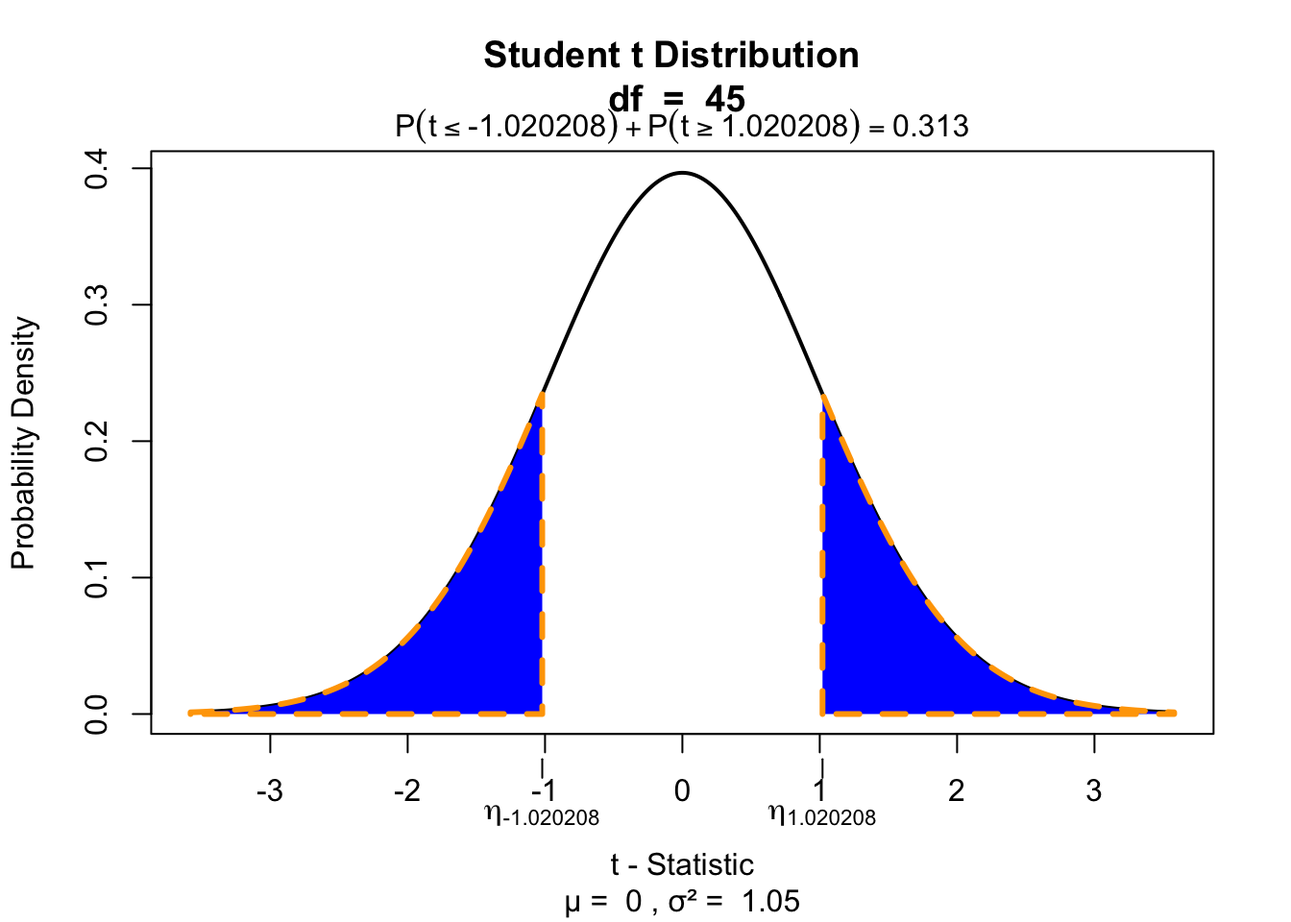
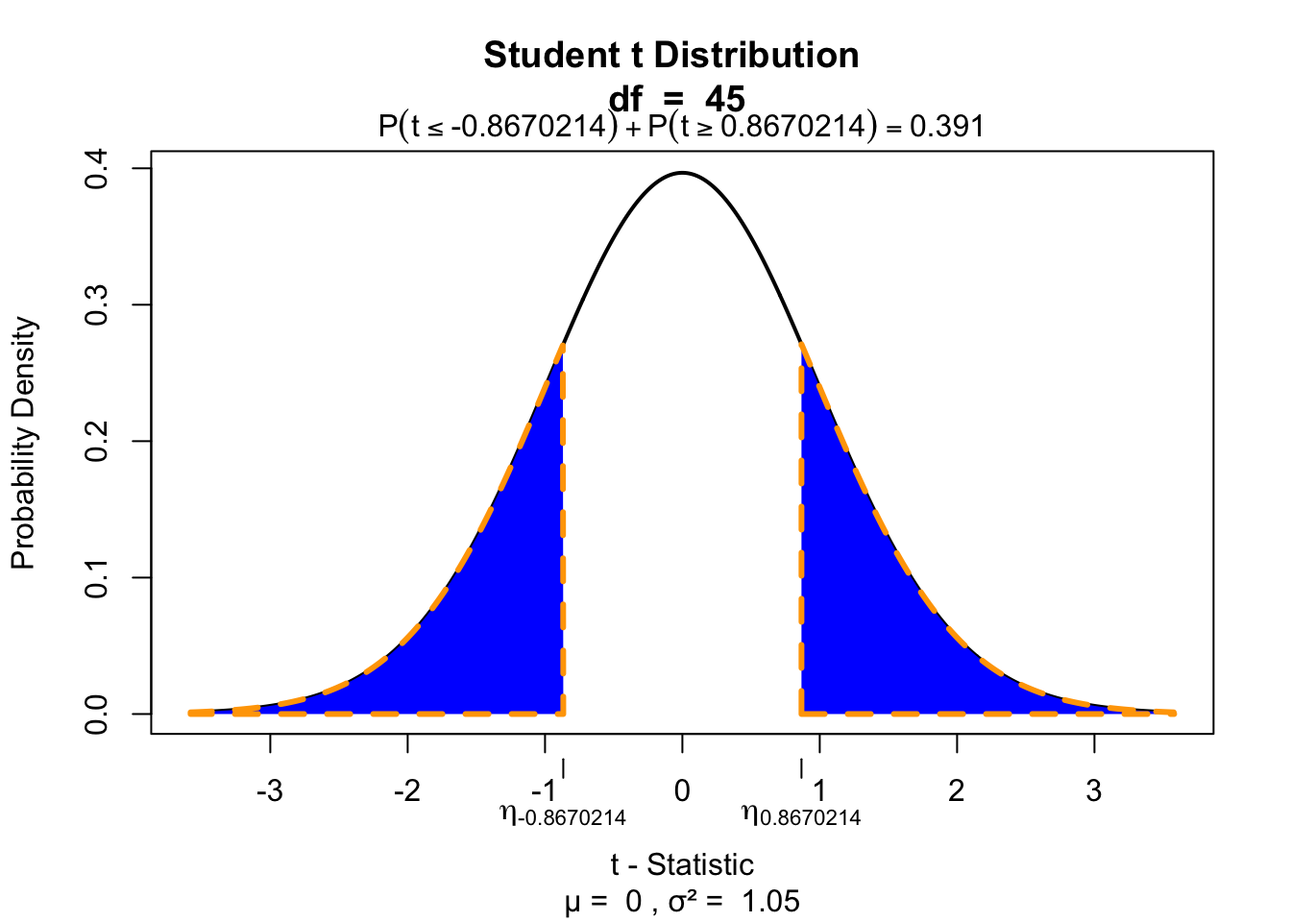
echo chunk false

diff --git a/courses/2020-2021_SSR/paired_and_independent_t_test/paired_and_independent_t_test_reveal.html b/courses/2020-2021_SSR/paired_and_independent_t_test/paired_and_independent_t_test_reveal.html
@@ -644,63 +644,52 @@ document.getElementsByTagName('head')[0].appendChild(style);
 <p>Let’s take a look at the data.</p>
 </section><section id="iq-estimates" class="slide level2">
 <h2>IQ estimates</h2>
-<div class="sourceCode" id="cb1"><pre class="sourceCode r"><code class="sourceCode r"><span id="cb1-1"><a href="#cb1-1"></a><span class="cf">if</span>(<span class="op">!</span><span class="st">&#39;gsheet&#39;</span> <span class="op">%in%</span><span class="st"> </span><span class="kw">installed.packages</span>()) { <span class="kw">install.packages</span>(<span class="st">&#39;gsheet&#39;</span>) }</span>
-<span id="cb1-2"><a href="#cb1-2"></a><span class="kw">library</span>(<span class="st">&quot;gsheet&quot;</span>)</span>
-<span id="cb1-3"><a href="#cb1-3"></a>data &lt;-<span class="st"> </span><span class="kw">gsheet2tbl</span>(<span class="st">&#39;docs.google.com/spreadsheets/d/13oLFjy5e923weH8bzBipZSvWYS_dpw7B77g5yW_myLg/edit?usp=sharing&#39;</span>)</span></code></pre></div>
-<pre><code>## No encoding supplied: defaulting to UTF-8.</code></pre>
-<div class="sourceCode" id="cb3"><pre class="sourceCode r"><code class="sourceCode r"><span id="cb3-1"><a href="#cb3-1"></a>data =<span class="st"> </span>data[<span class="kw">grep</span>(<span class="st">&quot;2017&quot;</span>, <span class="kw">as.character</span>(data<span class="op">$</span>Timestamp)),<span class="kw">c</span>(<span class="st">&quot;IQ.next.to.you&quot;</span>, <span class="st">&quot;Own.IQ&quot;</span>)]</span>
-<span id="cb3-2"><a href="#cb3-2"></a></span>
-<span id="cb3-3"><a href="#cb3-3"></a>IQ.next.to.you =<span class="st"> </span>data<span class="op">$</span>IQ.next.to.you</span>
-<span id="cb3-4"><a href="#cb3-4"></a>IQ.you         =<span class="st"> </span>data<span class="op">$</span>Own.IQ</span>
-<span id="cb3-5"><a href="#cb3-5"></a></span>
-<span id="cb3-6"><a href="#cb3-6"></a><span class="cf">if</span>(<span class="op">!</span><span class="st">&quot;DT&quot;</span> <span class="op">%in%</span><span class="st"> </span><span class="kw">installed.packages</span>()) { <span class="kw">install.packages</span>(<span class="st">&quot;DT&quot;</span>) }</span>
-<span id="cb3-7"><a href="#cb3-7"></a><span class="kw">library</span>(<span class="st">&quot;DT&quot;</span>)</span></code></pre></div>
-<div id="htmlwidget-cb89c8059a50452ca29a" style="width:100%;height:auto;" class="datatables html-widget"></div>
-<script type="application/json" data-for="htmlwidget-cb89c8059a50452ca29a">{"x":{"filter":"none","data":[["1","2","3","4","5","6","7","8","9","10","11","12","13","14","15","16","17","18","19","20","21","22","23","24","25","26","27","28","29","30","31","32","33","34","35","36","37","38","39","40","41","42","43","44","45","46","47","48","49"],[130,120,124,124,120,130,119,118,124,125,125,120,125,130,116,125,120,120,116,120,122,125,140,120,120,115,131,115,123,125,121,120,125,150,135,125,110,120,127,120,128,110,120,119,121,119,112,125,100],[125,120,125,134,115,130,110,118,116,125,125,115,121,134,115,125,136,125,121,120,115,125,135,110,115,115,118,115,118,129,128,120,120,128,130,115,115,120,118,120,128,108,120,110,109,118,100,121,120]],"container":"<table class=\"display\">\n  <thead>\n    <tr>\n      <th> <\/th>\n      <th>IQ.next.to.you<\/th>\n      <th>Own.IQ<\/th>\n    <\/tr>\n  <\/thead>\n<\/table>","options":{"searching":false,"scrollY":415,"paging":false,"info":false,"columnDefs":[{"className":"dt-right","targets":[1,2]},{"orderable":false,"targets":0}],"order":[],"autoWidth":false,"orderClasses":false}},"evals":[],"jsHooks":[]}</script>
+<div id="htmlwidget-43f55be091b55b59b90c" style="width:100%;height:auto;" class="datatables html-widget"></div>
+<script type="application/json" data-for="htmlwidget-43f55be091b55b59b90c">{"x":{"filter":"none","data":[["1","2","3","4","5","6","7","8","9","10","11","12","13","14","15","16","17","18","19","20","21","22","23","24","25","26","27","28","29","30","31","32","33","34","35","36","37","38","39","40","41","42","43","44","45","46","47","48","49"],[130,120,124,124,120,130,119,118,124,125,125,120,125,130,116,125,120,120,116,120,122,125,140,120,120,115,131,115,123,125,121,120,125,150,135,125,110,120,127,120,128,110,120,119,121,119,112,125,100],[125,120,125,134,115,130,110,118,116,125,125,115,121,134,115,125,136,125,121,120,115,125,135,110,115,115,118,115,118,129,128,120,120,128,130,115,115,120,118,120,128,108,120,110,109,118,100,121,120]],"container":"<table class=\"display\">\n  <thead>\n    <tr>\n      <th> <\/th>\n      <th>IQ.next.to.you<\/th>\n      <th>Own.IQ<\/th>\n    <\/tr>\n  <\/thead>\n<\/table>","options":{"searching":false,"scrollY":415,"paging":false,"info":false,"columnDefs":[{"className":"dt-right","targets":[1,2]},{"orderable":false,"targets":0}],"order":[],"autoWidth":false,"orderClasses":false}},"evals":[],"jsHooks":[]}</script>
 </section><section id="calculate-d" class="slide level2 smaller subsection">
 <h2>Calculate <span class="math inline">\(D\)</span></h2>
-<div class="sourceCode" id="cb4"><pre class="sourceCode r"><code class="sourceCode r"><span id="cb4-1"><a href="#cb4-1"></a>D =<span class="st"> </span>IQ.next.to.you <span class="op">-</span><span class="st"> </span>IQ.you</span></code></pre></div>
-<div id="htmlwidget-e0c90da67fc0621d2976" style="width:100%;height:auto;" class="datatables html-widget"></div>
-<script type="application/json" data-for="htmlwidget-e0c90da67fc0621d2976">{"x":{"filter":"none","data":[["1","2","3","4","5","6","7","8","9","10","11","12","13","14","15","16","17","18","19","20","21","22","23","24","25","26","27","28","29","30","31","32","33","34","35","36","37","38","39","40","41","42","43","44","45","46","47","48","49"],[130,120,124,124,120,130,119,118,124,125,125,120,125,130,116,125,120,120,116,120,122,125,140,120,120,115,131,115,123,125,121,120,125,150,135,125,110,120,127,120,128,110,120,119,121,119,112,125,100],[125,120,125,134,115,130,110,118,116,125,125,115,121,134,115,125,136,125,121,120,115,125,135,110,115,115,118,115,118,129,128,120,120,128,130,115,115,120,118,120,128,108,120,110,109,118,100,121,120],[5,0,-1,-10,5,0,9,0,8,0,0,5,4,-4,1,0,-16,-5,-5,0,7,0,5,10,5,0,13,0,5,-4,-7,0,5,22,5,10,-5,0,9,0,0,2,0,9,12,1,12,4,-20]],"container":"<table class=\"display\">\n  <thead>\n    <tr>\n      <th> <\/th>\n      <th>IQ.next.to.you<\/th>\n      <th>Own.IQ<\/th>\n      <th>D<\/th>\n    <\/tr>\n  <\/thead>\n<\/table>","options":{"searching":false,"scrollY":315,"paging":false,"info":false,"columnDefs":[{"className":"dt-right","targets":[1,2,3]},{"orderable":false,"targets":0}],"order":[],"autoWidth":false,"orderClasses":false}},"evals":[],"jsHooks":[]}</script>
+<div class="sourceCode" id="cb1"><pre class="sourceCode r"><code class="sourceCode r"><span id="cb1-1"><a href="#cb1-1"></a>D =<span class="st"> </span>IQ.next.to.you <span class="op">-</span><span class="st"> </span>IQ.you</span></code></pre></div>
+<div id="htmlwidget-84f750cadb10d37549fd" style="width:100%;height:auto;" class="datatables html-widget"></div>
+<script type="application/json" data-for="htmlwidget-84f750cadb10d37549fd">{"x":{"filter":"none","data":[["1","2","3","4","5","6","7","8","9","10","11","12","13","14","15","16","17","18","19","20","21","22","23","24","25","26","27","28","29","30","31","32","33","34","35","36","37","38","39","40","41","42","43","44","45","46","47","48","49"],[130,120,124,124,120,130,119,118,124,125,125,120,125,130,116,125,120,120,116,120,122,125,140,120,120,115,131,115,123,125,121,120,125,150,135,125,110,120,127,120,128,110,120,119,121,119,112,125,100],[125,120,125,134,115,130,110,118,116,125,125,115,121,134,115,125,136,125,121,120,115,125,135,110,115,115,118,115,118,129,128,120,120,128,130,115,115,120,118,120,128,108,120,110,109,118,100,121,120],[5,0,-1,-10,5,0,9,0,8,0,0,5,4,-4,1,0,-16,-5,-5,0,7,0,5,10,5,0,13,0,5,-4,-7,0,5,22,5,10,-5,0,9,0,0,2,0,9,12,1,12,4,-20]],"container":"<table class=\"display\">\n  <thead>\n    <tr>\n      <th> <\/th>\n      <th>IQ.next.to.you<\/th>\n      <th>Own.IQ<\/th>\n      <th>D<\/th>\n    <\/tr>\n  <\/thead>\n<\/table>","options":{"searching":false,"scrollY":315,"paging":false,"info":false,"columnDefs":[{"className":"dt-right","targets":[1,2,3]},{"orderable":false,"targets":0}],"order":[],"autoWidth":false,"orderClasses":false}},"evals":[],"jsHooks":[]}</script>
 </section><section id="calculate-bard" class="slide level2">
 <h2>Calculate <span class="math inline">\(\bar{D}\)</span></h2>
-<div class="sourceCode" id="cb5"><pre class="sourceCode r"><code class="sourceCode r"><span id="cb5-1"><a href="#cb5-1"></a>D      =<span class="st"> </span><span class="kw">na.omit</span>(D) <span class="co"># get rid of all missing values</span></span>
-<span id="cb5-2"><a href="#cb5-2"></a>D.mean =<span class="st"> </span><span class="kw">mean</span>(D)</span>
-<span id="cb5-3"><a href="#cb5-3"></a>D.mean</span></code></pre></div>
+<div class="sourceCode" id="cb2"><pre class="sourceCode r"><code class="sourceCode r"><span id="cb2-1"><a href="#cb2-1"></a>D      =<span class="st"> </span><span class="kw">na.omit</span>(D) <span class="co"># get rid of all missing values</span></span>
+<span id="cb2-2"><a href="#cb2-2"></a>D.mean =<span class="st"> </span><span class="kw">mean</span>(D)</span>
+<span id="cb2-3"><a href="#cb2-3"></a>D.mean</span></code></pre></div>
 <pre><code>## [1] 1.959184</code></pre>
 <p>And we also need n.</p>
-<div class="sourceCode" id="cb7"><pre class="sourceCode r"><code class="sourceCode r"><span id="cb7-1"><a href="#cb7-1"></a>n =<span class="st"> </span><span class="kw">length</span>(D)</span>
-<span id="cb7-2"><a href="#cb7-2"></a>n</span></code></pre></div>
+<div class="sourceCode" id="cb4"><pre class="sourceCode r"><code class="sourceCode r"><span id="cb4-1"><a href="#cb4-1"></a>n =<span class="st"> </span><span class="kw">length</span>(D)</span>
+<span id="cb4-2"><a href="#cb4-2"></a>n</span></code></pre></div>
 <pre><code>## [1] 49</code></pre>
 </section><section id="calculate-t-value" class="slide level2 subsection">
 <h2>Calculate t-value</h2>
 <p><span class="math display">\[t_{n-1} = \frac{\bar{D} - \mu}{ {SE}_D }\]</span></p>
-<div class="sourceCode" id="cb9"><pre class="sourceCode r"><code class="sourceCode r"><span id="cb9-1"><a href="#cb9-1"></a>mu =<span class="st"> </span><span class="dv">0</span>                <span class="co"># Define mu</span></span>
-<span id="cb9-2"><a href="#cb9-2"></a></span>
-<span id="cb9-3"><a href="#cb9-3"></a>D.sd =<span class="st"> </span><span class="kw">sd</span>(D)          <span class="co"># Calculate standard deviation</span></span>
-<span id="cb9-4"><a href="#cb9-4"></a>D.se =<span class="st"> </span>D.sd <span class="op">/</span><span class="st"> </span><span class="kw">sqrt</span>(n) <span class="co"># Calculate standard error</span></span>
-<span id="cb9-5"><a href="#cb9-5"></a></span>
-<span id="cb9-6"><a href="#cb9-6"></a>df   =<span class="st"> </span>n <span class="op">-</span><span class="st"> </span><span class="dv">1</span>          <span class="co"># Calculate degrees of freedom</span></span>
-<span id="cb9-7"><a href="#cb9-7"></a></span>
-<span id="cb9-8"><a href="#cb9-8"></a><span class="co"># Calculate t</span></span>
-<span id="cb9-9"><a href="#cb9-9"></a>t =<span class="st"> </span>( D.mean <span class="op">-</span><span class="st"> </span>mu ) <span class="op">/</span><span class="st"> </span>D.se</span>
-<span id="cb9-10"><a href="#cb9-10"></a>t</span></code></pre></div>
+<div class="sourceCode" id="cb6"><pre class="sourceCode r"><code class="sourceCode r"><span id="cb6-1"><a href="#cb6-1"></a>mu =<span class="st"> </span><span class="dv">0</span>                <span class="co"># Define mu</span></span>
+<span id="cb6-2"><a href="#cb6-2"></a></span>
+<span id="cb6-3"><a href="#cb6-3"></a>D.sd =<span class="st"> </span><span class="kw">sd</span>(D)          <span class="co"># Calculate standard deviation</span></span>
+<span id="cb6-4"><a href="#cb6-4"></a>D.se =<span class="st"> </span>D.sd <span class="op">/</span><span class="st"> </span><span class="kw">sqrt</span>(n) <span class="co"># Calculate standard error</span></span>
+<span id="cb6-5"><a href="#cb6-5"></a></span>
+<span id="cb6-6"><a href="#cb6-6"></a>df   =<span class="st"> </span>n <span class="op">-</span><span class="st"> </span><span class="dv">1</span>          <span class="co"># Calculate degrees of freedom</span></span>
+<span id="cb6-7"><a href="#cb6-7"></a></span>
+<span id="cb6-8"><a href="#cb6-8"></a><span class="co"># Calculate t</span></span>
+<span id="cb6-9"><a href="#cb6-9"></a>t =<span class="st"> </span>( D.mean <span class="op">-</span><span class="st"> </span>mu ) <span class="op">/</span><span class="st"> </span>D.se</span>
+<span id="cb6-10"><a href="#cb6-10"></a>t</span></code></pre></div>
 <pre><code>## [1] 1.915726</code></pre>
 </section><section id="test-for-significance" class="slide level2 subsection">
 <h2>Test for significance</h2>
 <p>Two tailed</p>
-<div class="sourceCode" id="cb11"><pre class="sourceCode r"><code class="sourceCode r"><span id="cb11-1"><a href="#cb11-1"></a><span class="cf">if</span>(<span class="op">!</span><span class="st">&quot;visualize&quot;</span> <span class="op">%in%</span><span class="st"> </span><span class="kw">installed.packages</span>()) { <span class="kw">install.packages</span>(<span class="st">&quot;visualize&quot;</span>) }</span>
-<span id="cb11-2"><a href="#cb11-2"></a><span class="kw">library</span>(<span class="st">&quot;visualize&quot;</span>)</span>
-<span id="cb11-3"><a href="#cb11-3"></a></span>
-<span id="cb11-4"><a href="#cb11-4"></a><span class="kw">visualize.t</span>(<span class="kw">c</span>(<span class="op">-</span>t,t), df, <span class="dt">section=</span><span class="st">&quot;tails&quot;</span>)</span></code></pre></div>
+<div class="sourceCode" id="cb8"><pre class="sourceCode r"><code class="sourceCode r"><span id="cb8-1"><a href="#cb8-1"></a><span class="cf">if</span>(<span class="op">!</span><span class="st">&quot;visualize&quot;</span> <span class="op">%in%</span><span class="st"> </span><span class="kw">installed.packages</span>()) { <span class="kw">install.packages</span>(<span class="st">&quot;visualize&quot;</span>) }</span>
+<span id="cb8-2"><a href="#cb8-2"></a><span class="kw">library</span>(<span class="st">&quot;visualize&quot;</span>)</span>
+<span id="cb8-3"><a href="#cb8-3"></a></span>
+<span id="cb8-4"><a href="#cb8-4"></a><span class="kw">visualize.t</span>(<span class="kw">c</span>(<span class="op">-</span>t,t), df, <span class="dt">section=</span><span class="st">&quot;tails&quot;</span>)</span></code></pre></div>
 </section><section class="slide level2">
 
 <p><img src="paired_and_independent_t_test_reveal_files/figure-revealjs/unnamed-chunk-12-1.png" width="768" /></p>
 </section><section id="effect-size" class="slide level2 subsection">
 <h2>Effect-size</h2>
 <p><span class="math display">\[r = \sqrt{\frac{t^2}{t^2 + \text{df}}}\]</span></p>
-<div class="sourceCode" id="cb12"><pre class="sourceCode r"><code class="sourceCode r"><span id="cb12-1"><a href="#cb12-1"></a>r =<span class="st"> </span><span class="kw">sqrt</span>(t<span class="op">^</span><span class="dv">2</span><span class="op">/</span>(t<span class="op">^</span><span class="dv">2</span> <span class="op">+</span><span class="st"> </span>df))</span>
-<span id="cb12-2"><a href="#cb12-2"></a>r</span></code></pre></div>
+<div class="sourceCode" id="cb9"><pre class="sourceCode r"><code class="sourceCode r"><span id="cb9-1"><a href="#cb9-1"></a>r =<span class="st"> </span><span class="kw">sqrt</span>(t<span class="op">^</span><span class="dv">2</span><span class="op">/</span>(t<span class="op">^</span><span class="dv">2</span> <span class="op">+</span><span class="st"> </span>df))</span>
+<span id="cb9-2"><a href="#cb9-2"></a>r</span></code></pre></div>
 <pre><code>## [1] 0.2665104</code></pre>
 </section><section id="confidence-interval" class="slide level2 smaller subsection">
 <h2>Confidence interval</h2>
@@ -782,34 +771,34 @@ EXECUTE.</code></pre>
 </section><section id="example" class="slide level2">
 <h2>Example</h2>
 <p>We are going to use the IQ estimates we collected last week again. You had to gues the IQ of the one sitting next to you and your own IQ. But we are going to add gender to the data set. We did not register this so we are going to simulate some genders.</p>
-<div class="sourceCode" id="cb15"><pre class="sourceCode r"><code class="sourceCode r"><span id="cb15-1"><a href="#cb15-1"></a>gender =<span class="st"> </span><span class="kw">sample</span>(<span class="kw">c</span>(<span class="st">&quot;male&quot;</span>, <span class="st">&quot;female&quot;</span>), <span class="kw">dim</span>(data)[<span class="dv">1</span>], <span class="dt">replace =</span> <span class="ot">TRUE</span>)</span></code></pre></div>
+<div class="sourceCode" id="cb12"><pre class="sourceCode r"><code class="sourceCode r"><span id="cb12-1"><a href="#cb12-1"></a>gender =<span class="st"> </span><span class="kw">sample</span>(<span class="kw">c</span>(<span class="st">&quot;male&quot;</span>, <span class="st">&quot;female&quot;</span>), <span class="kw">dim</span>(data)[<span class="dv">1</span>], <span class="dt">replace =</span> <span class="ot">TRUE</span>)</span></code></pre></div>
 </section><section id="the-data" class="slide level2">
 <h2>The data</h2>
-<div id="htmlwidget-ac0d00fe928879200689" style="width:100%;height:auto;" class="datatables html-widget"></div>
-<script type="application/json" data-for="htmlwidget-ac0d00fe928879200689">{"x":{"filter":"none","data":[["1","2","3","4","5","6","7","8","9","10","11","12","13","14","15","16","17","18","19","20","21","22","23","24","25","26","27","28","29","30","31","32","33","34","35","36","37","38","39","40","41","42","43","44","45","46","47","48","49"],["female","female","male","female","female","male","female","female","male","female","male","female","male","male","male","female","male","female","female","male","female","female","male","female","female","male","female","male","male","male","female","female","male","female","male","male","male","female","male","female","female","female","female","female","male","male","male","male","male"],[125,120,125,134,115,130,110,118,116,125,125,115,121,134,115,125,136,125,121,120,115,125,135,110,115,115,118,115,118,129,128,120,120,128,130,115,115,120,118,120,128,108,120,110,109,118,100,121,120]],"container":"<table class=\"display\">\n  <thead>\n    <tr>\n      <th> <\/th>\n      <th>gender<\/th>\n      <th>IQ.you<\/th>\n    <\/tr>\n  <\/thead>\n<\/table>","options":{"searching":false,"scrollY":415,"paging":false,"info":false,"columnDefs":[{"className":"dt-right","targets":2},{"orderable":false,"targets":0}],"order":[],"autoWidth":false,"orderClasses":false}},"evals":[],"jsHooks":[]}</script>
+<div id="htmlwidget-96fc97e622ff10554a1a" style="width:100%;height:auto;" class="datatables html-widget"></div>
+<script type="application/json" data-for="htmlwidget-96fc97e622ff10554a1a">{"x":{"filter":"none","data":[["1","2","3","4","5","6","7","8","9","10","11","12","13","14","15","16","17","18","19","20","21","22","23","24","25","26","27","28","29","30","31","32","33","34","35","36","37","38","39","40","41","42","43","44","45","46","47","48","49"],["female","male","male","female","male","male","female","male","female","male","male","female","female","male","female","female","female","male","male","female","female","male","male","male","female","male","male","female","female","male","female","male","male","male","male","female","female","female","female","female","female","female","male","female","female","male","male","male","female"],[125,120,125,134,115,130,110,118,116,125,125,115,121,134,115,125,136,125,121,120,115,125,135,110,115,115,118,115,118,129,128,120,120,128,130,115,115,120,118,120,128,108,120,110,109,118,100,121,120]],"container":"<table class=\"display\">\n  <thead>\n    <tr>\n      <th> <\/th>\n      <th>gender<\/th>\n      <th>IQ.you<\/th>\n    <\/tr>\n  <\/thead>\n<\/table>","options":{"searching":false,"scrollY":415,"paging":false,"info":false,"columnDefs":[{"className":"dt-right","targets":2},{"orderable":false,"targets":0}],"order":[],"autoWidth":false,"orderClasses":false}},"evals":[],"jsHooks":[]}</script>
 </section><section id="calculate-means" class="slide level2 subsection">
 <h2>Calculate means</h2>
-<div class="sourceCode" id="cb16"><pre class="sourceCode r"><code class="sourceCode r"><span id="cb16-1"><a href="#cb16-1"></a>IQ.you.male   =<span class="st"> </span><span class="kw">subset</span>(data, gender <span class="op">==</span><span class="st"> &quot;male&quot;</span>,   <span class="dt">select =</span> IQ.you)<span class="op">$</span>IQ.you</span>
-<span id="cb16-2"><a href="#cb16-2"></a>IQ.you.female =<span class="st"> </span><span class="kw">subset</span>(data, gender <span class="op">==</span><span class="st"> &quot;female&quot;</span>, <span class="dt">select =</span> IQ.you)<span class="op">$</span>IQ.you</span>
-<span id="cb16-3"><a href="#cb16-3"></a></span>
-<span id="cb16-4"><a href="#cb16-4"></a>IQ.you.male.mean   =<span class="st"> </span><span class="kw">mean</span>(IQ.you.male,   <span class="dt">na.rm =</span> T)</span>
-<span id="cb16-5"><a href="#cb16-5"></a>IQ.you.female.mean =<span class="st"> </span><span class="kw">mean</span>(IQ.you.female, <span class="dt">na.rm =</span> T)</span>
-<span id="cb16-6"><a href="#cb16-6"></a></span>
-<span id="cb16-7"><a href="#cb16-7"></a><span class="kw">rbind</span>(IQ.you.male.mean, IQ.you.female.mean)</span></code></pre></div>
+<div class="sourceCode" id="cb13"><pre class="sourceCode r"><code class="sourceCode r"><span id="cb13-1"><a href="#cb13-1"></a>IQ.you.male   =<span class="st"> </span><span class="kw">subset</span>(data, gender <span class="op">==</span><span class="st"> &quot;male&quot;</span>,   <span class="dt">select =</span> IQ.you)<span class="op">$</span>IQ.you</span>
+<span id="cb13-2"><a href="#cb13-2"></a>IQ.you.female =<span class="st"> </span><span class="kw">subset</span>(data, gender <span class="op">==</span><span class="st"> &quot;female&quot;</span>, <span class="dt">select =</span> IQ.you)<span class="op">$</span>IQ.you</span>
+<span id="cb13-3"><a href="#cb13-3"></a></span>
+<span id="cb13-4"><a href="#cb13-4"></a>IQ.you.male.mean   =<span class="st"> </span><span class="kw">mean</span>(IQ.you.male,   <span class="dt">na.rm =</span> T)</span>
+<span id="cb13-5"><a href="#cb13-5"></a>IQ.you.female.mean =<span class="st"> </span><span class="kw">mean</span>(IQ.you.female, <span class="dt">na.rm =</span> T)</span>
+<span id="cb13-6"><a href="#cb13-6"></a></span>
+<span id="cb13-7"><a href="#cb13-7"></a><span class="kw">rbind</span>(IQ.you.male.mean, IQ.you.female.mean)</span></code></pre></div>
 <pre><code>##                        [,1]
-## IQ.you.male.mean   120.8333
-## IQ.you.female.mean 119.9200</code></pre>
+## IQ.you.male.mean   121.9583
+## IQ.you.female.mean 118.8400</code></pre>
 </section><section id="calculate-variance" class="slide level2 smaller subsection">
 <h2>Calculate variance</h2>
-<div class="sourceCode" id="cb18"><pre class="sourceCode r"><code class="sourceCode r"><span id="cb18-1"><a href="#cb18-1"></a>IQ.you.male.var   =<span class="st"> </span><span class="kw">var</span>(IQ.you.male,   <span class="dt">na.rm =</span> T)</span>
-<span id="cb18-2"><a href="#cb18-2"></a>IQ.you.female.var =<span class="st"> </span><span class="kw">var</span>(IQ.you.female, <span class="dt">na.rm =</span> T)</span>
-<span id="cb18-3"><a href="#cb18-3"></a><span class="kw">rbind</span>(IQ.you.male.var, IQ.you.female.var)</span></code></pre></div>
+<div class="sourceCode" id="cb15"><pre class="sourceCode r"><code class="sourceCode r"><span id="cb15-1"><a href="#cb15-1"></a>IQ.you.male.var   =<span class="st"> </span><span class="kw">var</span>(IQ.you.male,   <span class="dt">na.rm =</span> T)</span>
+<span id="cb15-2"><a href="#cb15-2"></a>IQ.you.female.var =<span class="st"> </span><span class="kw">var</span>(IQ.you.female, <span class="dt">na.rm =</span> T)</span>
+<span id="cb15-3"><a href="#cb15-3"></a><span class="kw">rbind</span>(IQ.you.male.var, IQ.you.female.var)</span></code></pre></div>
 <pre><code>##                       [,1]
-## IQ.you.male.var   72.49275
-## IQ.you.female.var 44.41000</code></pre>
-<div class="sourceCode" id="cb20"><pre class="sourceCode r"><code class="sourceCode r"><span id="cb20-1"><a href="#cb20-1"></a>IQ.you.male.n   =<span class="st"> </span><span class="kw">length</span>(IQ.you.male)   <span class="op">-</span><span class="st"> </span><span class="dv">1</span></span>
-<span id="cb20-2"><a href="#cb20-2"></a>IQ.you.female.n =<span class="st"> </span><span class="kw">length</span>(IQ.you.female) <span class="op">-</span><span class="st"> </span><span class="dv">1</span></span>
-<span id="cb20-3"><a href="#cb20-3"></a><span class="kw">rbind</span>(IQ.you.male.n, IQ.you.female.n)</span></code></pre></div>
+## IQ.you.male.var   59.25906
+## IQ.you.female.var 52.55667</code></pre>
+<div class="sourceCode" id="cb17"><pre class="sourceCode r"><code class="sourceCode r"><span id="cb17-1"><a href="#cb17-1"></a>IQ.you.male.n   =<span class="st"> </span><span class="kw">length</span>(IQ.you.male)   <span class="op">-</span><span class="st"> </span><span class="dv">1</span></span>
+<span id="cb17-2"><a href="#cb17-2"></a>IQ.you.female.n =<span class="st"> </span><span class="kw">length</span>(IQ.you.female) <span class="op">-</span><span class="st"> </span><span class="dv">1</span></span>
+<span id="cb17-3"><a href="#cb17-3"></a><span class="kw">rbind</span>(IQ.you.male.n, IQ.you.female.n)</span></code></pre></div>
 <pre><code>##                 [,1]
 ## IQ.you.male.n     23
 ## IQ.you.female.n   24</code></pre>
@@ -824,44 +813,44 @@ EXECUTE.</code></pre>
 </section><section id="calculate-pooled-variance" class="slide level2 subsection">
 <h2>Calculate pooled variance</h2>
 <p><span class="math display">\[S^2_p = \frac{(n_1-1)s^2_1+(n_2-1)s^2_2}{n_1+n_2-2}\]</span></p>
-<div class="sourceCode" id="cb22"><pre class="sourceCode r"><code class="sourceCode r"><span id="cb22-1"><a href="#cb22-1"></a>df =<span class="st"> </span>IQ.you.male.n <span class="op">+</span><span class="st"> </span>IQ.you.female.n <span class="op">-</span><span class="st"> </span><span class="dv">2</span></span>
-<span id="cb22-2"><a href="#cb22-2"></a></span>
-<span id="cb22-3"><a href="#cb22-3"></a>s2.p =<span class="st"> </span>( (IQ.you.male.n<span class="dv">-1</span>)<span class="op">*</span>IQ.you.male.var <span class="op">+</span><span class="st"> </span>(IQ.you.female.n<span class="dv">-1</span>)<span class="op">*</span>IQ.you.female.var ) <span class="op">/</span><span class="st"> </span>df</span>
-<span id="cb22-4"><a href="#cb22-4"></a></span>
-<span id="cb22-5"><a href="#cb22-5"></a>df</span></code></pre></div>
+<div class="sourceCode" id="cb19"><pre class="sourceCode r"><code class="sourceCode r"><span id="cb19-1"><a href="#cb19-1"></a>df =<span class="st"> </span>IQ.you.male.n <span class="op">+</span><span class="st"> </span>IQ.you.female.n <span class="op">-</span><span class="st"> </span><span class="dv">2</span></span>
+<span id="cb19-2"><a href="#cb19-2"></a></span>
+<span id="cb19-3"><a href="#cb19-3"></a>s2.p =<span class="st"> </span>( (IQ.you.male.n<span class="dv">-1</span>)<span class="op">*</span>IQ.you.male.var <span class="op">+</span><span class="st"> </span>(IQ.you.female.n<span class="dv">-1</span>)<span class="op">*</span>IQ.you.female.var ) <span class="op">/</span><span class="st"> </span>df</span>
+<span id="cb19-4"><a href="#cb19-4"></a></span>
+<span id="cb19-5"><a href="#cb19-5"></a>df</span></code></pre></div>
 <pre><code>## [1] 45</code></pre>
-<div class="sourceCode" id="cb24"><pre class="sourceCode r"><code class="sourceCode r"><span id="cb24-1"><a href="#cb24-1"></a>s2.p</span></code></pre></div>
-<pre><code>## [1] 58.13935</code></pre>
+<div class="sourceCode" id="cb21"><pre class="sourceCode r"><code class="sourceCode r"><span id="cb21-1"><a href="#cb21-1"></a>s2.p</span></code></pre></div>
+<pre><code>## [1] 55.83339</code></pre>
 </section><section id="calculate-pooled-se" class="slide level2 subsection">
 <h2>Calculate pooled SE</h2>
 <p><span class="math display">\[{SE}_p = \sqrt{\frac{S^2_p}{n_1}+\frac{S^2_p}{n_2}}\]</span></p>
-<div class="sourceCode" id="cb26"><pre class="sourceCode r"><code class="sourceCode r"><span id="cb26-1"><a href="#cb26-1"></a>se.p    =<span class="st"> </span><span class="kw">sqrt</span>( ((s2.p<span class="op">/</span>IQ.you.male.n) <span class="op">+</span><span class="st"> </span>(s2.p<span class="op">/</span>IQ.you.female.n)) )</span>
-<span id="cb26-2"><a href="#cb26-2"></a>se.p</span></code></pre></div>
-<pre><code>## [1] 2.22492</code></pre>
+<div class="sourceCode" id="cb23"><pre class="sourceCode r"><code class="sourceCode r"><span id="cb23-1"><a href="#cb23-1"></a>se.p    =<span class="st"> </span><span class="kw">sqrt</span>( ((s2.p<span class="op">/</span>IQ.you.male.n) <span class="op">+</span><span class="st"> </span>(s2.p<span class="op">/</span>IQ.you.female.n)) )</span>
+<span id="cb23-2"><a href="#cb23-2"></a>se.p</span></code></pre></div>
+<pre><code>## [1] 2.180351</code></pre>
 </section><section id="calculate-t-value-2" class="slide level2 subsection">
 <h2>Calculate t-value</h2>
 <p><span class="math display">\[t_{n_1 + n_2 -2} = \frac{(\bar{X}_1 - \bar{X}_2) - \mu}{{SE}_p}\]</span></p>
-<div class="sourceCode" id="cb28"><pre class="sourceCode r"><code class="sourceCode r"><span id="cb28-1"><a href="#cb28-1"></a>t =<span class="st"> </span>( IQ.you.male.mean <span class="op">-</span><span class="st"> </span>IQ.you.female.mean ) <span class="op">/</span><span class="st"> </span>se.p</span>
-<span id="cb28-2"><a href="#cb28-2"></a></span>
-<span id="cb28-3"><a href="#cb28-3"></a>t</span></code></pre></div>
-<pre><code>## [1] 0.4105016</code></pre>
+<div class="sourceCode" id="cb25"><pre class="sourceCode r"><code class="sourceCode r"><span id="cb25-1"><a href="#cb25-1"></a>t =<span class="st"> </span>( IQ.you.male.mean <span class="op">-</span><span class="st"> </span>IQ.you.female.mean ) <span class="op">/</span><span class="st"> </span>se.p</span>
+<span id="cb25-2"><a href="#cb25-2"></a></span>
+<span id="cb25-3"><a href="#cb25-3"></a>t</span></code></pre></div>
+<pre><code>## [1] 1.430198</code></pre>
 </section><section id="test-for-significance-1" class="slide level2">
 <h2>Test for significance</h2>
 <p>Two tailed</p>
-<div class="sourceCode" id="cb30"><pre class="sourceCode r"><code class="sourceCode r"><span id="cb30-1"><a href="#cb30-1"></a><span class="cf">if</span>(<span class="op">!</span><span class="st">&quot;visualize&quot;</span> <span class="op">%in%</span><span class="st"> </span><span class="kw">installed.packages</span>()) { <span class="kw">install.packages</span>(<span class="st">&quot;visualize&quot;</span>) }</span>
-<span id="cb30-2"><a href="#cb30-2"></a><span class="kw">library</span>(<span class="st">&quot;visualize&quot;</span>)</span>
-<span id="cb30-3"><a href="#cb30-3"></a></span>
-<span id="cb30-4"><a href="#cb30-4"></a><span class="kw">visualize.t</span>(<span class="kw">c</span>(<span class="op">-</span>t,t), df, <span class="dt">section=</span><span class="st">&quot;tails&quot;</span>)</span></code></pre></div>
+<div class="sourceCode" id="cb27"><pre class="sourceCode r"><code class="sourceCode r"><span id="cb27-1"><a href="#cb27-1"></a><span class="cf">if</span>(<span class="op">!</span><span class="st">&quot;visualize&quot;</span> <span class="op">%in%</span><span class="st"> </span><span class="kw">installed.packages</span>()) { <span class="kw">install.packages</span>(<span class="st">&quot;visualize&quot;</span>) }</span>
+<span id="cb27-2"><a href="#cb27-2"></a><span class="kw">library</span>(<span class="st">&quot;visualize&quot;</span>)</span>
+<span id="cb27-3"><a href="#cb27-3"></a></span>
+<span id="cb27-4"><a href="#cb27-4"></a><span class="kw">visualize.t</span>(<span class="kw">c</span>(<span class="op">-</span>t,t), df, <span class="dt">section=</span><span class="st">&quot;tails&quot;</span>)</span></code></pre></div>
 </section><section class="slide level2">
 
 <p><img src="paired_and_independent_t_test_reveal_files/figure-revealjs/unnamed-chunk-23-1.png" width="768" /></p>
 </section><section id="effect-size-1" class="slide level2">
 <h2>Effect-size</h2>
 <p><span class="math display">\[r = \sqrt{\frac{t^2}{t^2 + \text{df}}}\]</span></p>
-<div class="sourceCode" id="cb31"><pre class="sourceCode r"><code class="sourceCode r"><span id="cb31-1"><a href="#cb31-1"></a>r =<span class="st"> </span><span class="kw">sqrt</span>(t<span class="op">^</span><span class="dv">2</span><span class="op">/</span>(t<span class="op">^</span><span class="dv">2</span> <span class="op">+</span><span class="st"> </span>df))</span>
-<span id="cb31-2"><a href="#cb31-2"></a></span>
-<span id="cb31-3"><a href="#cb31-3"></a>r</span></code></pre></div>
-<pre><code>## [1] 0.06107971</code></pre>
+<div class="sourceCode" id="cb28"><pre class="sourceCode r"><code class="sourceCode r"><span id="cb28-1"><a href="#cb28-1"></a>r =<span class="st"> </span><span class="kw">sqrt</span>(t<span class="op">^</span><span class="dv">2</span><span class="op">/</span>(t<span class="op">^</span><span class="dv">2</span> <span class="op">+</span><span class="st"> </span>df))</span>
+<span id="cb28-2"><a href="#cb28-2"></a></span>
+<span id="cb28-3"><a href="#cb28-3"></a>r</span></code></pre></div>
+<pre><code>## [1] 0.208515</code></pre>
 <!-- Footer insert below -->
 </section></section>
 <section><section id="end" class="title-slide slide level1"><h1>End</h1></section><section id="contact" class="slide level2">

diff --git a/courses/2020-2021_SSR/paired_and_independent_t_test/paired_and_independent_t_test_handout.html b/courses/2020-2021_SSR/paired_and_independent_t_test/paired_and_independent_t_test_handout.html
@@ -351,25 +351,14 @@ div.tocify {
 </div>
 <div id="iq-estimates" class="section level2">
 <h2>IQ estimates</h2>
-<pre class="r"><code>if(!&#39;gsheet&#39; %in% installed.packages()) { install.packages(&#39;gsheet&#39;) }
-library(&quot;gsheet&quot;)
-data &lt;- gsheet2tbl(&#39;docs.google.com/spreadsheets/d/13oLFjy5e923weH8bzBipZSvWYS_dpw7B77g5yW_myLg/edit?usp=sharing&#39;)</code></pre>
-<pre><code>## No encoding supplied: defaulting to UTF-8.</code></pre>
-<pre class="r"><code>data = data[grep(&quot;2017&quot;, as.character(data$Timestamp)),c(&quot;IQ.next.to.you&quot;, &quot;Own.IQ&quot;)]
-
-IQ.next.to.you = data$IQ.next.to.you
-IQ.you         = data$Own.IQ
-
-if(!&quot;DT&quot; %in% installed.packages()) { install.packages(&quot;DT&quot;) }
-library(&quot;DT&quot;)</code></pre>
-<div id="htmlwidget-3eee54069dcf2ce7802f" style="width:100%;height:auto;" class="datatables html-widget"></div>
-<script type="application/json" data-for="htmlwidget-3eee54069dcf2ce7802f">{"x":{"filter":"none","data":[["1","2","3","4","5","6","7","8","9","10","11","12","13","14","15","16","17","18","19","20","21","22","23","24","25","26","27","28","29","30","31","32","33","34","35","36","37","38","39","40","41","42","43","44","45","46","47","48","49"],[130,120,124,124,120,130,119,118,124,125,125,120,125,130,116,125,120,120,116,120,122,125,140,120,120,115,131,115,123,125,121,120,125,150,135,125,110,120,127,120,128,110,120,119,121,119,112,125,100],[125,120,125,134,115,130,110,118,116,125,125,115,121,134,115,125,136,125,121,120,115,125,135,110,115,115,118,115,118,129,128,120,120,128,130,115,115,120,118,120,128,108,120,110,109,118,100,121,120]],"container":"<table class=\"display\">\n  <thead>\n    <tr>\n      <th> <\/th>\n      <th>IQ.next.to.you<\/th>\n      <th>Own.IQ<\/th>\n    <\/tr>\n  <\/thead>\n<\/table>","options":{"searching":false,"scrollY":415,"paging":false,"info":false,"columnDefs":[{"className":"dt-right","targets":[1,2]},{"orderable":false,"targets":0}],"order":[],"autoWidth":false,"orderClasses":false}},"evals":[],"jsHooks":[]}</script>
+<div id="htmlwidget-847d4d35f9250a0afe8e" style="width:100%;height:auto;" class="datatables html-widget"></div>
+<script type="application/json" data-for="htmlwidget-847d4d35f9250a0afe8e">{"x":{"filter":"none","data":[["1","2","3","4","5","6","7","8","9","10","11","12","13","14","15","16","17","18","19","20","21","22","23","24","25","26","27","28","29","30","31","32","33","34","35","36","37","38","39","40","41","42","43","44","45","46","47","48","49"],[130,120,124,124,120,130,119,118,124,125,125,120,125,130,116,125,120,120,116,120,122,125,140,120,120,115,131,115,123,125,121,120,125,150,135,125,110,120,127,120,128,110,120,119,121,119,112,125,100],[125,120,125,134,115,130,110,118,116,125,125,115,121,134,115,125,136,125,121,120,115,125,135,110,115,115,118,115,118,129,128,120,120,128,130,115,115,120,118,120,128,108,120,110,109,118,100,121,120]],"container":"<table class=\"display\">\n  <thead>\n    <tr>\n      <th> <\/th>\n      <th>IQ.next.to.you<\/th>\n      <th>Own.IQ<\/th>\n    <\/tr>\n  <\/thead>\n<\/table>","options":{"searching":false,"scrollY":415,"paging":false,"info":false,"columnDefs":[{"className":"dt-right","targets":[1,2]},{"orderable":false,"targets":0}],"order":[],"autoWidth":false,"orderClasses":false}},"evals":[],"jsHooks":[]}</script>
 </div>
 <div id="calculate-d" class="section level2 smaller subsection">
 <h2>Calculate <span class="math inline">\(D\)</span></h2>
 <pre class="r"><code>D = IQ.next.to.you - IQ.you</code></pre>
-<div id="htmlwidget-c473c9677ecef6226f7c" style="width:100%;height:auto;" class="datatables html-widget"></div>
-<script type="application/json" data-for="htmlwidget-c473c9677ecef6226f7c">{"x":{"filter":"none","data":[["1","2","3","4","5","6","7","8","9","10","11","12","13","14","15","16","17","18","19","20","21","22","23","24","25","26","27","28","29","30","31","32","33","34","35","36","37","38","39","40","41","42","43","44","45","46","47","48","49"],[130,120,124,124,120,130,119,118,124,125,125,120,125,130,116,125,120,120,116,120,122,125,140,120,120,115,131,115,123,125,121,120,125,150,135,125,110,120,127,120,128,110,120,119,121,119,112,125,100],[125,120,125,134,115,130,110,118,116,125,125,115,121,134,115,125,136,125,121,120,115,125,135,110,115,115,118,115,118,129,128,120,120,128,130,115,115,120,118,120,128,108,120,110,109,118,100,121,120],[5,0,-1,-10,5,0,9,0,8,0,0,5,4,-4,1,0,-16,-5,-5,0,7,0,5,10,5,0,13,0,5,-4,-7,0,5,22,5,10,-5,0,9,0,0,2,0,9,12,1,12,4,-20]],"container":"<table class=\"display\">\n  <thead>\n    <tr>\n      <th> <\/th>\n      <th>IQ.next.to.you<\/th>\n      <th>Own.IQ<\/th>\n      <th>D<\/th>\n    <\/tr>\n  <\/thead>\n<\/table>","options":{"searching":false,"scrollY":315,"paging":false,"info":false,"columnDefs":[{"className":"dt-right","targets":[1,2,3]},{"orderable":false,"targets":0}],"order":[],"autoWidth":false,"orderClasses":false}},"evals":[],"jsHooks":[]}</script>
+<div id="htmlwidget-2848df15c3eeaffc75bc" style="width:100%;height:auto;" class="datatables html-widget"></div>
+<script type="application/json" data-for="htmlwidget-2848df15c3eeaffc75bc">{"x":{"filter":"none","data":[["1","2","3","4","5","6","7","8","9","10","11","12","13","14","15","16","17","18","19","20","21","22","23","24","25","26","27","28","29","30","31","32","33","34","35","36","37","38","39","40","41","42","43","44","45","46","47","48","49"],[130,120,124,124,120,130,119,118,124,125,125,120,125,130,116,125,120,120,116,120,122,125,140,120,120,115,131,115,123,125,121,120,125,150,135,125,110,120,127,120,128,110,120,119,121,119,112,125,100],[125,120,125,134,115,130,110,118,116,125,125,115,121,134,115,125,136,125,121,120,115,125,135,110,115,115,118,115,118,129,128,120,120,128,130,115,115,120,118,120,128,108,120,110,109,118,100,121,120],[5,0,-1,-10,5,0,9,0,8,0,0,5,4,-4,1,0,-16,-5,-5,0,7,0,5,10,5,0,13,0,5,-4,-7,0,5,22,5,10,-5,0,9,0,0,2,0,9,12,1,12,4,-20]],"container":"<table class=\"display\">\n  <thead>\n    <tr>\n      <th> <\/th>\n      <th>IQ.next.to.you<\/th>\n      <th>Own.IQ<\/th>\n      <th>D<\/th>\n    <\/tr>\n  <\/thead>\n<\/table>","options":{"searching":false,"scrollY":315,"paging":false,"info":false,"columnDefs":[{"className":"dt-right","targets":[1,2,3]},{"orderable":false,"targets":0}],"order":[],"autoWidth":false,"orderClasses":false}},"evals":[],"jsHooks":[]}</script>
 </div>
 <div id="calculate-bard" class="section level2">
 <h2>Calculate <span class="math inline">\(\bar{D}\)</span></h2>
@@ -506,8 +495,8 @@ EXECUTE.</code></pre>
 </div>
 <div id="the-data" class="section level2">
 <h2>The data</h2>
-<div id="htmlwidget-24b11b079edb76f6778d" style="width:100%;height:auto;" class="datatables html-widget"></div>
-<script type="application/json" data-for="htmlwidget-24b11b079edb76f6778d">{"x":{"filter":"none","data":[["1","2","3","4","5","6","7","8","9","10","11","12","13","14","15","16","17","18","19","20","21","22","23","24","25","26","27","28","29","30","31","32","33","34","35","36","37","38","39","40","41","42","43","44","45","46","47","48","49"],["male","female","female","female","female","male","female","male","male","female","male","male","male","male","female","female","male","female","male","male","female","female","male","male","female","male","male","male","male","female","male","male","female","female","female","male","female","female","female","female","female","female","female","female","female","female","female","female","male"],[125,120,125,134,115,130,110,118,116,125,125,115,121,134,115,125,136,125,121,120,115,125,135,110,115,115,118,115,118,129,128,120,120,128,130,115,115,120,118,120,128,108,120,110,109,118,100,121,120]],"container":"<table class=\"display\">\n  <thead>\n    <tr>\n      <th> <\/th>\n      <th>gender<\/th>\n      <th>IQ.you<\/th>\n    <\/tr>\n  <\/thead>\n<\/table>","options":{"searching":false,"scrollY":415,"paging":false,"info":false,"columnDefs":[{"className":"dt-right","targets":2},{"orderable":false,"targets":0}],"order":[],"autoWidth":false,"orderClasses":false}},"evals":[],"jsHooks":[]}</script>
+<div id="htmlwidget-c885573a9434004225da" style="width:100%;height:auto;" class="datatables html-widget"></div>
+<script type="application/json" data-for="htmlwidget-c885573a9434004225da">{"x":{"filter":"none","data":[["1","2","3","4","5","6","7","8","9","10","11","12","13","14","15","16","17","18","19","20","21","22","23","24","25","26","27","28","29","30","31","32","33","34","35","36","37","38","39","40","41","42","43","44","45","46","47","48","49"],["male","female","female","female","female","female","male","male","male","male","male","male","female","female","female","male","female","male","female","male","male","female","female","male","male","male","male","male","female","male","female","female","female","male","female","female","female","female","female","male","male","female","male","male","female","male","female","female","female"],[125,120,125,134,115,130,110,118,116,125,125,115,121,134,115,125,136,125,121,120,115,125,135,110,115,115,118,115,118,129,128,120,120,128,130,115,115,120,118,120,128,108,120,110,109,118,100,121,120]],"container":"<table class=\"display\">\n  <thead>\n    <tr>\n      <th> <\/th>\n      <th>gender<\/th>\n      <th>IQ.you<\/th>\n    <\/tr>\n  <\/thead>\n<\/table>","options":{"searching":false,"scrollY":415,"paging":false,"info":false,"columnDefs":[{"className":"dt-right","targets":2},{"orderable":false,"targets":0}],"order":[],"autoWidth":false,"orderClasses":false}},"evals":[],"jsHooks":[]}</script>
 </div>
 <div id="calculate-means" class="section level2 subsection">
 <h2>Calculate means</h2>
@@ -519,8 +508,8 @@ IQ.you.female.mean = mean(IQ.you.female, na.rm = T)
 
 rbind(IQ.you.male.mean, IQ.you.female.mean)</code></pre>
 <pre><code>##                        [,1]
-## IQ.you.male.mean   121.6667
-## IQ.you.female.mean 119.3929</code></pre>
+## IQ.you.male.mean   119.3478
+## IQ.you.female.mean 121.2692</code></pre>
 </div>
 <div id="calculate-variance" class="section level2 smaller subsection">
 <h2>Calculate variance</h2>
@@ -528,14 +517,14 @@ rbind(IQ.you.male.mean, IQ.you.female.mean)</code></pre>
 IQ.you.female.var = var(IQ.you.female, na.rm = T)
 rbind(IQ.you.male.var, IQ.you.female.var)</code></pre>
 <pre><code>##                       [,1]
-## IQ.you.male.var   53.13333
-## IQ.you.female.var 59.95106</code></pre>
+## IQ.you.male.var   35.32806
+## IQ.you.female.var 76.84462</code></pre>
 <pre class="r"><code>IQ.you.male.n   = length(IQ.you.male)   - 1
 IQ.you.female.n = length(IQ.you.female) - 1
 rbind(IQ.you.male.n, IQ.you.female.n)</code></pre>
 <pre><code>##                 [,1]
-## IQ.you.male.n     20
-## IQ.you.female.n   27</code></pre>
+## IQ.you.male.n     22
+## IQ.you.female.n   25</code></pre>
 </div>
 <div id="calculate-t-value-1" class="section level2">
 <h2>Calculate t-value</h2>
@@ -556,14 +545,14 @@ s2.p = ( (IQ.you.male.n-1)*IQ.you.male.var + (IQ.you.female.n-1)*IQ.you.female.v
 df</code></pre>
 <pre><code>## [1] 45</code></pre>
 <pre class="r"><code>s2.p</code></pre>
-<pre><code>## [1] 57.07246</code></pre>
+<pre><code>## [1] 57.47022</code></pre>
 </div>
 <div id="calculate-pooled-se" class="section level2 subsection">
 <h2>Calculate pooled SE</h2>
 <p><span class="math display">\[{SE}_p = \sqrt{\frac{S^2_p}{n_1}+\frac{S^2_p}{n_2}}\]</span></p>
 <pre class="r"><code>se.p    = sqrt( ((s2.p/IQ.you.male.n) + (s2.p/IQ.you.female.n)) )
 se.p</code></pre>
-<pre><code>## [1] 2.228771</code></pre>
+<pre><code>## [1] 2.216098</code></pre>
 </div>
 <div id="calculate-t-value-2" class="section level2 subsection">
 <h2>Calculate t-value</h2>
@@ -571,7 +560,7 @@ se.p</code></pre>
 <pre class="r"><code>t = ( IQ.you.male.mean - IQ.you.female.mean ) / se.p
 
 t</code></pre>
-<pre><code>## [1] 1.020208</code></pre>
+<pre><code>## [1] -0.8670214</code></pre>
 </div>
 <div id="test-for-significance-1" class="section level2">
 <h2>Test for significance</h2>
@@ -589,7 +578,7 @@ visualize.t(c(-t,t), df, section=&quot;tails&quot;)</code></pre>
 <pre class="r"><code>r = sqrt(t^2/(t^2 + df))
 
 r</code></pre>
-<pre><code>## [1] 0.1503548</code></pre>
+<pre><code>## [1] 0.1281817</code></pre>
 <!-- Footer insert below -->
 </div>
 </div>
